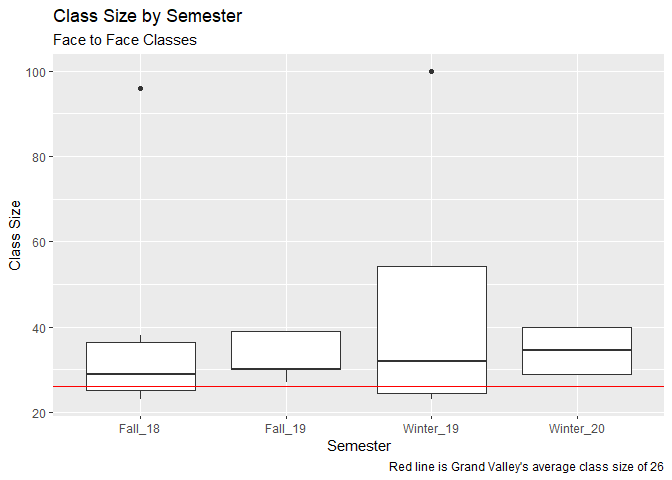
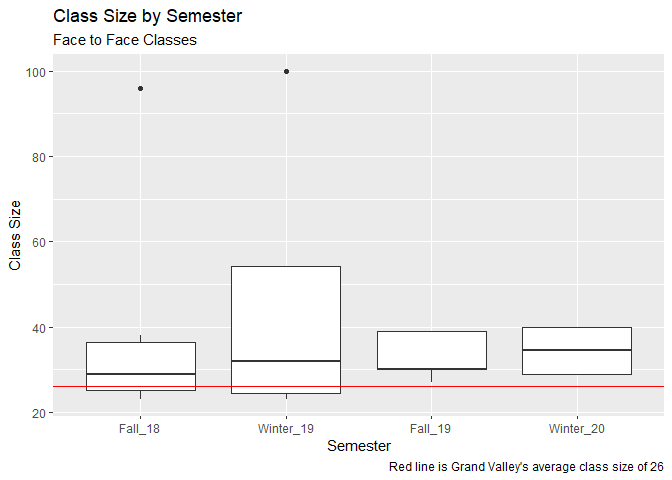
using 'here' to load data
releveled factors for 'semester' so in chronological order

diff --git a/corona-college.md b/corona-college.md
@@ -23,35 +23,12 @@ project.
 library(readxl)
 library(tidyverse)
 library(kableExtra)
-(class_sizes <- read_excel("data/class_sizes.xlsx"))
-```
+library(here)
 
-    ## # A tibble: 20 x 6
-    ##    Semester   Year Class       Department          Size In_person
-    ##    <chr>     <dbl> <chr>       <chr>              <dbl>     <dbl>
-    ##  1 Fall_18    2018 HNR 280     Honors College        25         1
-    ##  2 Fall_18    2018 US 102      University Studies    26         1
-    ##  3 Fall_18    2018 BIO 120-20  Biology               96         1
-    ##  4 Fall_18    2018 BIO 120-912 Biology               23         1
-    ##  5 Fall_18    2018 BIO 120-23  Biology               32         1
-    ##  6 Fall_18    2018 ECO 210     Economics             38         1
-    ##  7 Winter_19  2019 HNR 280     Honors College        25         1
-    ##  8 Winter_19  2019 MTH 122     Mathematics           23         1
-    ##  9 Winter_19  2019 ECO 211     Economics             39         1
-    ## 10 Winter_19  2019 BUS 201     Business             100         1
-    ## 11 Fall_19    2019 ECO 312     Economics             39         1
-    ## 12 Fall_19    2019 STA 216     Statistics            30         1
-    ## 13 Fall_19    2019 ECO 300     Economics             30         1
-    ## 14 Fall_19    2019 ECO 360     Economics             39         1
-    ## 15 Fall_19    2019 MTH 123     Mathematics           27         1
-    ## 16 Winter_20  2020 STA 321     Statistics            29         1
-    ## 17 Winter_20  2020 MTH 201     Mathematics           29         1
-    ## 18 Winter_20  2020 ECO 345     Economics             40         1
-    ## 19 Winter_20  2020 HNR 280     Honors College        21         0
-    ## 20 Winter_20  2020 ECO 355     Economics             40         1
+class_sizes <- read_excel(here("data","class_sizes.xlsx"))
 
-``` r
-in_person <- filter(class_sizes, In_person == 1)
+in_person <- filter(class_sizes, In_person == 1) %>% 
+  mutate(Semester = fct_relevel(Semester, "Fall_18", "Winter_19", "Fall_19", "Winter_20"))
 ```
 
 I made this dataset by copying the information I found on Banner for my
@@ -405,46 +382,6 @@ Fall\_18
 
 <td style="text-align:left;">
 
-Fall\_19
-
-</td>
-
-<td style="text-align:right;">
-
-5
-
-</td>
-
-<td style="text-align:right;">
-
-5.61
-
-</td>
-
-<td style="text-align:right;">
-
-27
-
-</td>
-
-<td style="text-align:right;">
-
-30.0
-
-</td>
-
-<td style="text-align:right;">
-
-39
-
-</td>
-
-</tr>
-
-<tr>
-
-<td style="text-align:left;">
-
 Winter\_19
 
 </td>
@@ -476,6 +413,46 @@ Winter\_19
 <td style="text-align:right;">
 
 100
+
+</td>
+
+</tr>
+
+<tr>
+
+<td style="text-align:left;">
+
+Fall\_19
+
+</td>
+
+<td style="text-align:right;">
+
+5
+
+</td>
+
+<td style="text-align:right;">
+
+5.61
+
+</td>
+
+<td style="text-align:right;">
+
+27
+
+</td>
+
+<td style="text-align:right;">
+
+30.0
+
+</td>
+
+<td style="text-align:right;">
+
+39
 
 </td>
 
@@ -545,9 +522,6 @@ in_person %>%
 ```
 
 ![](corona-college_files/figure-gfm/by%20semester-graph-1.png)<!-- -->
-
-Another day, another boxplot. Keep in mind that the semesters are not in
-chronological order.
 
 # Class Size by Department
 
